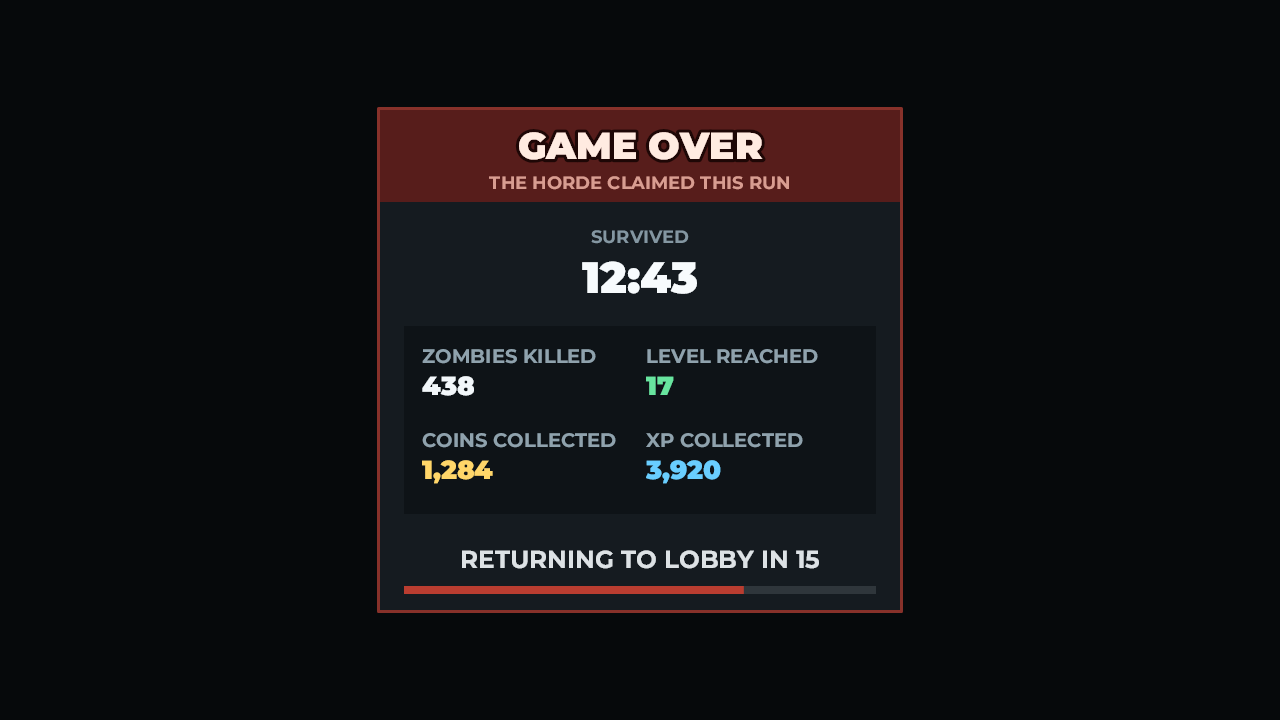
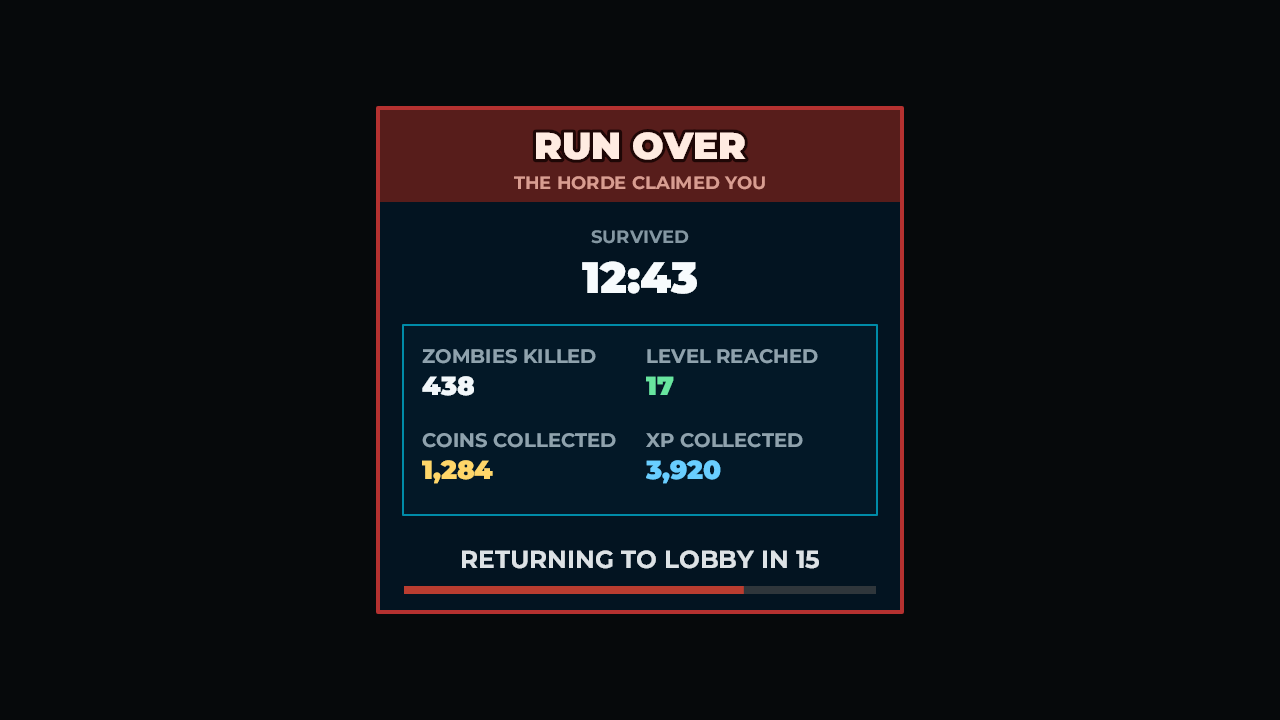
Auto backup 25/09/2026, 4:06:38 pm

diff --git a/Index.md b/Index.md
@@ -19,7 +19,7 @@ Quick reference for the reusable first-party Luau foundation. Generated Wally de
 | `src/controllers/PartyTeleporterController.lua` | Mirrors validated party/setup/loading state, sends leader confirmation and member requests, and presents server messages through the shared notification system. |
 | `src/controllers/AbilityController.lua` | Mirrors persistent ability state and dispatches validated weapon and passive presentation events; run loadouts are presented by the progression snapshot. |
 | `src/controllers/RunProgressionController.lua` | Mirrors the owning player's run-only level, XP, queued legal choices, and current run ability snapshot, and sends indexed card selections. |
-| `src/controllers/RunSessionController.lua` | Mirrors the owning player's authoritative game-over summary and lobby-return failure state. |
+| `src/controllers/RunSessionController.lua` | Mirrors the authoritative first-zombie survival-clock start, game-over summary, and lobby-return failure state. |
 | `src/controllers/Ability/ActiveWeaponEffects.lua` | Renders Fireball, Lightning, and latency-corrected Boomerang presentation from authoritative server packets. |
 | `src/controllers/Ability/OrbitingSwordsView.lua` | Renders smoothly reconciled spectral sword orbits, Rage blades, trails, and released-blade return flights. |
 | `src/controllers/Ability/PassiveEffectsView.lua` | Renders lightweight Blast, Burn, and Thorns feedback from authoritative server packets. |
@@ -42,7 +42,7 @@ Quick reference for the reusable first-party Luau foundation. Generated Wally de
 | `src/servercontrollers/PartyTeleporterController.lua` | Owns closed-elevator entry/exit, explicitly confirmed leader setup with timeout ejection, party settings/countdowns, Studio loading/completion tracking, and whole-party ejection on teleport failure. |
 | `src/servercontrollers/AbilityController.lua` | Owns persistent unlocks plus transient game-run loadouts/levels, active/passive refreshes, ability-specific Rage behavior, and authoritative damage. |
 | `src/servercontrollers/RunProgressionController.lua` | Owns per-player run XP/levels, queues every earned level-up, rolls three distinct legal unlocked ability choices, and validates one indexed selection at a time. |
-| `src/servercontrollers/RunSessionController.lua` | Owns independent per-player run lifetimes, final kill/coin/XP/level statistics, death cleanup, and the delayed lobby return without ending surviving players' runs. |
+| `src/servercontrollers/RunSessionController.lua` | Starts every player's survival clock on the first authoritative zombie spawn, owns final run statistics and death cleanup, and delays each lobby return independently. |
 | `src/servercontrollers/BreakableController.lua` | Spawns weighted authored props across the active Game map, owns their health and respawns, and produces local hit, fragment, sound, and fade feedback when abilities damage them. |
 | `src/servercontrollers/Breakable/BreakableConfig.lua` | Defines server-only breakable density, spacing, durability, respawn, feedback timing, authored model weights, and sound choices. |
 | `src/servercontrollers/Ability/ActiveWeapons.lua` | Runs the shared authoritative Fireball, Lightning, and Boomerang scheduler, projectile hits, status ticks, area caps, Rage variants, and cleanup only in Game sessions. |
@@ -58,10 +58,10 @@ Quick reference for the reusable first-party Luau foundation. Generated Wally de
 | `src/servercontrollers/ZombieRewardsController.lua` | Centralizes confirmed zombie-death rewards and creates configured XP and permanent-coin drops from authoritative killer attribution. |
 | `src/servercontrollers/RageController.lua` | Owns the server-timed Rage charge cycle, activation validation, duration, death resets, and replication while rejecting Lobby activation. |
 | `src/servercontrollers/PlayerStateController.lua` | Owns generic per-player runtime state and replicates requested state updates. |
-| `src/servercontrollers/PlayerStatController.lua` | Composes named player health/speed modifiers, preserves gained health, and applies the final movement-speed limit. |
+| `src/servercontrollers/PlayerStatController.lua` | Applies the configured starting pace, composes named player health/speed modifiers, preserves gained health, and enforces the final movement-speed limit. |
 | `src/servercontrollers/RollController.lua` | **Archived/dormant:** owns ability rolls, luck chains, rewards, Auto Roll scheduling, and saved preferences. |
 | `src/servercontrollers/Roll/RollServerConfig.lua` | **Archived/dormant:** defines server-only luck, cooldown, and clover-chain balance values. |
-| `src/servercontrollers/ZombieController.lua` | Runs game-only, ground-validated player-centered spawning with time/player pressure scaling, authoritative simulation, compact replication, and centralized death/damage signals. |
+| `src/servercontrollers/ZombieController.lua` | Runs uncapped game-only, ground-validated player-centered spawning with time/player cadence scaling, authoritative simulation, compact replication, and centralized spawn/death/damage signals. |
 | `src/servercontrollers/Zombie/Zombie.lua` | Defines authoritative targeting, area-bounded movement, attacks, special-behavior dispatch, health, and knockback per zombie. |
 | `src/servercontrollers/Zombie/ZombieBehaviors.lua` | Provides definition-selected movement and attack strategies without type checks in core logic. |
 | `src/servercontrollers/Zombie/ZombieSpecialBehaviors.lua` | Implements the authoritative Spitter, Charger, Screamer, Tank, Leaper, Shielder, Bomber, Grabber, Summoner, Splitter, Burrower, Frenzy, Medic, Hardened, and Dodger strategies. |
@@ -90,15 +90,15 @@ These modules provide shared game configuration, persistent player-data defaults
 | `src/modules/Game/PartyTeleporterConfig.lua` | Defines party capacity, setup/countdown timing, zone cadence, teleport watchdog, Studio loading delay, and world-display limits. |
 | `src/modules/Game/BackpackConfig.lua` | Maps authoritative carried coin totals to authored physical backpack stages and mount offsets. |
 | `src/modules/Game/CoinDropConfig.lua` | Defines permanent-coin magnet/pickup timing and client-prediction batching limits from shared run balance. |
-| `src/modules/Game/RunProgressionConfig.lua` | Centralizes the run XP curve, pickup ownership/radii/speeds/lifetimes, baseline ability pool, choice count, and sublinear `playerCount ^ 0.8` horde pressure scaling. |
+| `src/modules/Game/RunProgressionConfig.lua` | Centralizes the faster-opening run XP curve, pickup ownership/radii/speeds/lifetimes, baseline ability pool, choice count, and sublinear `playerCount ^ 0.8` spawn-rate scaling. |
 | `src/modules/Game/Abilities/AbilityDefinitions.lua` | Defines expandable ability metadata, rarity odds, equip limits, upgrade costs, per-level stats, visible milestones, Rage tuning, and configurable Blast, Burn, and Thorns progression. |
-| `src/modules/Game/Stats/PlayerStatConfig.lua` | Defines fallback player base stats and the global final movement-speed limit. |
+| `src/modules/Game/Stats/PlayerStatConfig.lua` | Defines the shared starting movement speed, base health, and the global final movement-speed limit. |
 | `src/modules/Game/Rage/RageConfig.lua` | Defines shared Rage capacity, 30-second charge, 10-second duration, keybind, and request cadence. |
 | `src/modules/Game/DataTemplate.lua` | Supplies DataService's JSON-compatible persisted player-data defaults. |
 | `src/modules/Game/Rolls/RollDefinitions.lua` | Preserves the dormant weighted roll catalog and legacy data keys; still supplies saved-data compatibility and reveal timing. |
 | `src/modules/Game/RuntimeState.lua` | Stores generic transient per-player state and change signals. |
-| `src/modules/Game/Zombies/ZombieAreas.lua` | Defines spawn regions, walkable movement bounds, the smaller fast-contact opening horde, later caps/group sizes, and weighted zombie pools. |
-| `src/modules/Game/Zombies/ZombieDefinitions.lua` | Defines expandable per-type combat, movement, special-ability balance, authoritative XP/coin rewards, recolored/scaled presentation, and animation configuration. |
+| `src/modules/Game/Zombies/ZombieAreas.lua` | Defines uncapped spawn regions, walkable movement bounds, the slower single-zombie opening cadence, later group sizes, and weighted zombie pools. |
+| `src/modules/Game/Zombies/ZombieDefinitions.lua` | Defines expandable per-type combat, global horde speed/contact-pressure multipliers, special-ability balance, authoritative XP/coin rewards, recolored/scaled presentation, and animation configuration. |
 | `src/modules/Game/Zombies/ZombieProtocol.lua` | Shares compact movement/special state codes and snapshot timing between server simulation and client rendering. |
 | `src/modules/Game/TeleportPlayer.lua` | Teleports a Player or character Model to a CFrame or BasePart. |
 | `src/modules/Game/TeleportLocalPlayer.lua` | Teleports the local character for client-side presentation use. |
@@ -138,19 +138,20 @@ These modules provide shared game configuration, persistent player-data defaults
 | Path | Responsibility |
 | --- | --- |
 | `src/UI/App.lua` | Composes the neutral `App` ScreenGui, untouched party Creation Menu, reactive in-match HUD, and retained generic overlays. |
-| `src/UI/HUD/RunHUD.lua` | Renders the revamped game HUD: permanent coins, animated run XP, ability levels/cooldowns, and hover/tap tooltips. |
-| `src/UI/HUD/LevelUpChoices.lua` | Sequentially consumes every authoritative level-up set in a small top-screen reel strip with layered sound, sparkle/ring bursts, punch/expand, minimal shading, and camera/FOV feedback. |
-| `src/UI/HUD/GameOver.lua` | Renders the defeated player's authoritative run summary and live 15-second lobby-return countdown while surviving teammates continue. |
+| `src/UI/HUD/RunHUD.lua` | Renders the STUD-styled game HUD with center-left coins, a top-center first-spawn survival timer, animated run XP, abilities, and tooltips. |
+| `src/UI/HUD/LevelUpChoices.lua` | Sequentially consumes every authoritative level-up set in an image-first STUD card reel with concise summaries, layered sound, sparkle/ring bursts, punch/expand, minimal shading, and camera/FOV feedback. |
+| `src/UI/HUD/GameOver.lua` | Renders the STUD-styled defeated-player run summary and live 15-second lobby-return countdown while surviving teammates continue. |
 | `src/UI/UIOrigin.lua` | Mounts the Vide application once into LocalPlayer.PlayerGui. |
 | `src/UI/App.story.lua` | Exposes the app component for UI story previews. |
 | `src/UI/Classes/Button.lua` | Provides a reusable reactive button with configurable presentation, unified face/text press motion, interaction feedback, and sounds. |
 | `src/UI/Classes/Confirmation.lua` | Provides a reusable modal confirmation component. |
+| `src/UI/Classes/StudTexture.lua` | Provides the reusable tiled STUD surface layer used across active HUD panels and menus. |
 | `src/UI/Effects/HoverExpand.lua` | Provides reusable hover scaling for GuiObjects. |
 | `src/UI/Effects/Notification.lua` | Provides a reusable counted attention badge. |
 | `src/UI/HUD/CoinsDisplay.lua` | **Archived/dormant:** reusable responsive permanent-currency display. |
 | `src/UI/HUD/RunRewardsDisplay.lua` | **Archived/dormant:** pending-reward claim and backpack-to-balance presentation. |
 | `src/UI/HUD/AbilityInterface.lua` | **Archived/dormant:** ability management and roll-discovery presentation. |
-| `src/UI/HUD/RageBar.lua` | Renders the compact modern Rage meter with live charge/duration progress, reactive Game-session visibility, and keyboard/touch activation. |
+| `src/UI/HUD/RageBar.lua` | Renders the compact STUD-styled Rage meter with live charge/duration progress, reactive Game-session visibility, and keyboard/touch activation. |
 | `src/UI/HUD/Notifications.lua` | Renders transient notifications from NotificationManager. |
 | `src/UI/HUD/PartyTeleporterMenu.lua` | Renders the responsive leader-only Creation Menu and collapses confirmed or member views to the lock-aware exit control. |
 | `src/UI/HUD/RollControls.lua` | **Archived/dormant:** Roll/Hide/Show, Auto Roll progress, and ability-menu controls. |
